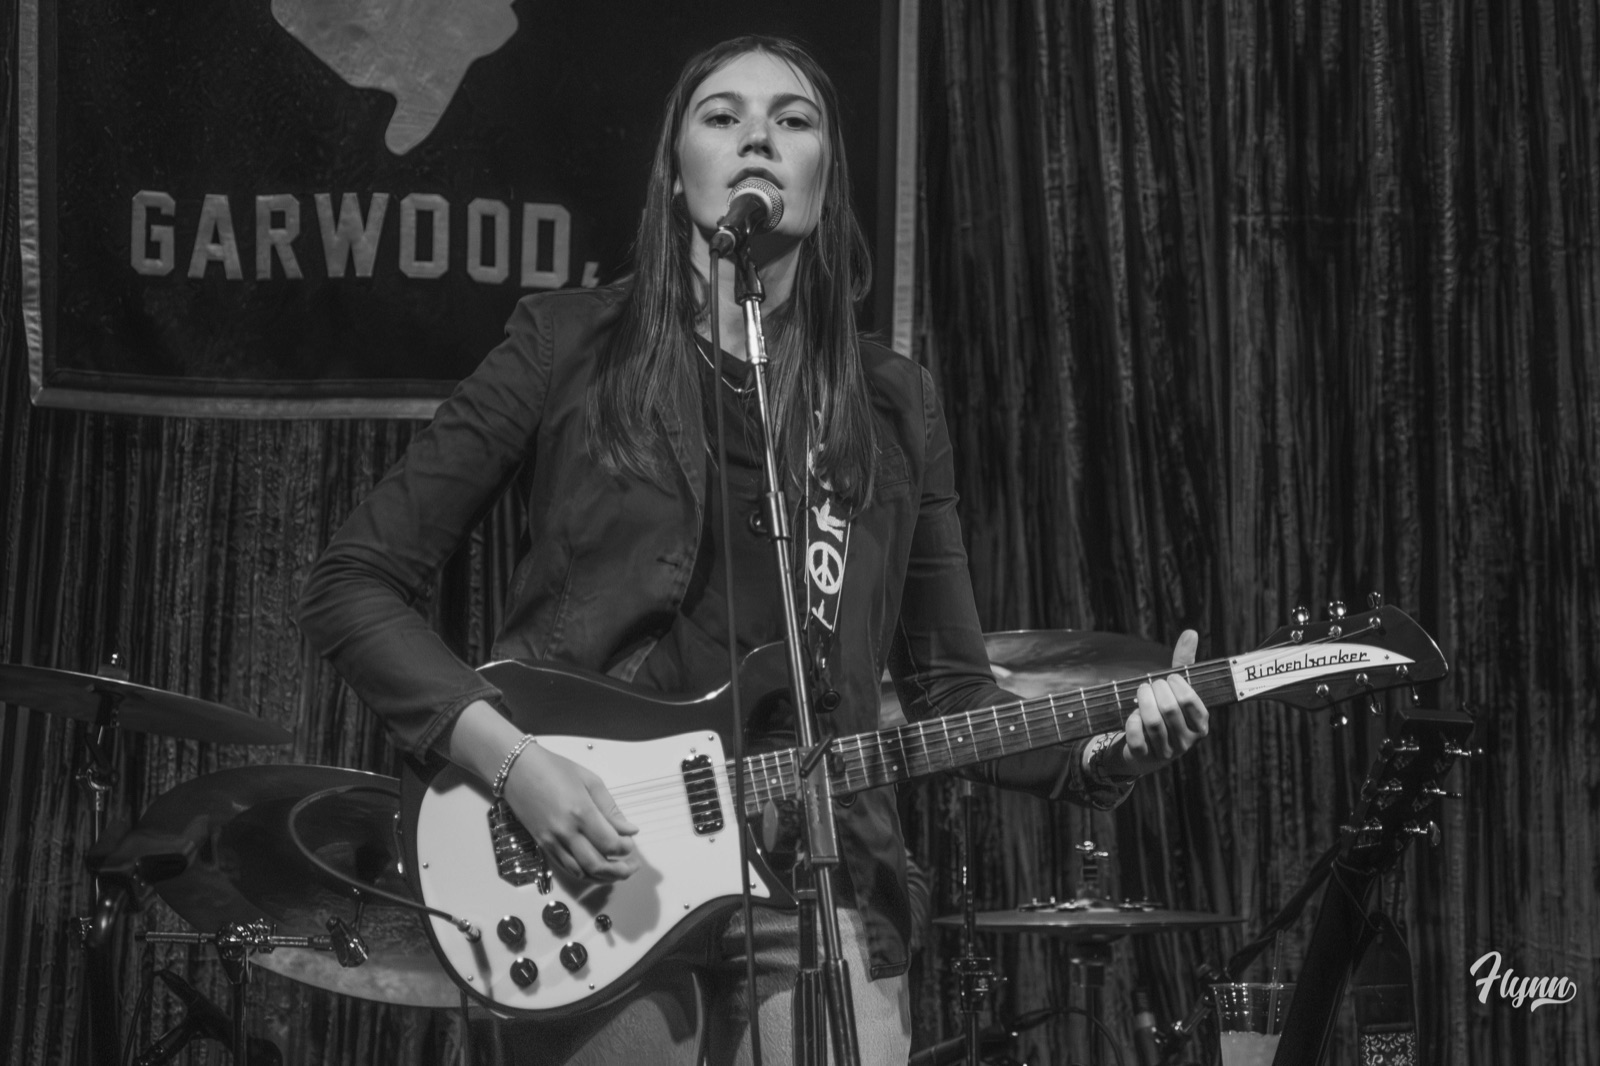
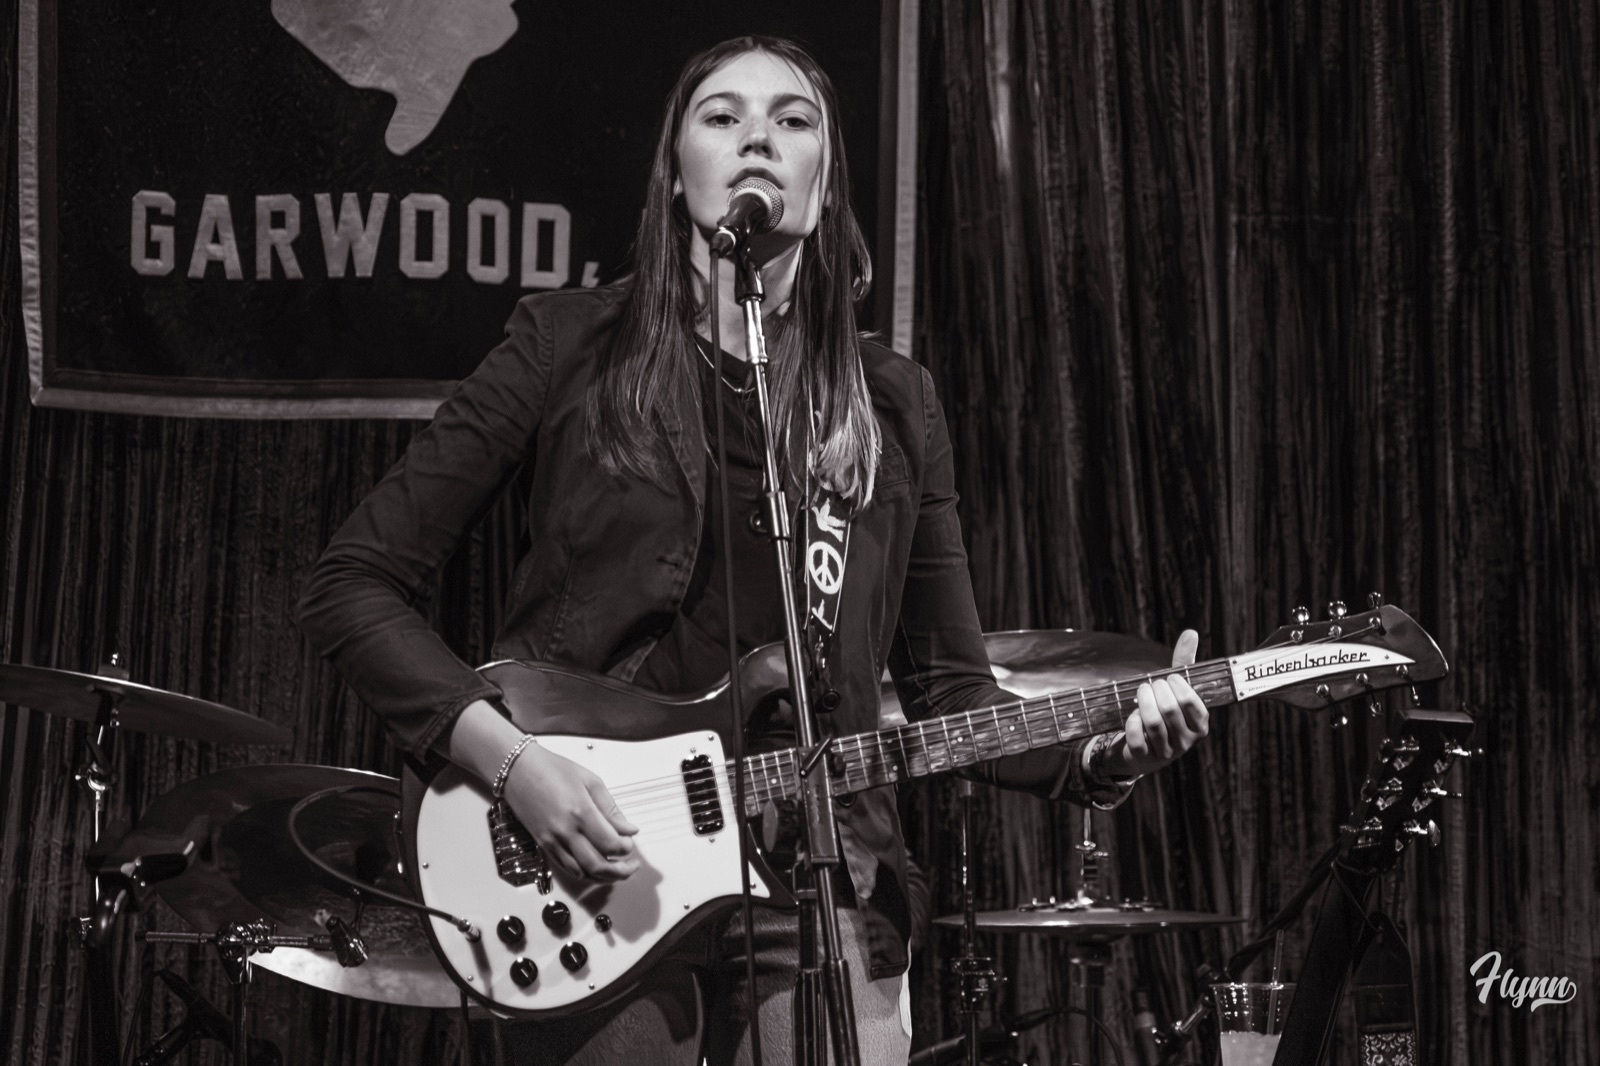
Ally Kenny proofs: replace 8370, drop 8411

diff --git a/proofs/ally-kenny/index.html b/proofs/ally-kenny/index.html
@@ -60,7 +60,7 @@ footer{color:var(--muted);font-size:13px;font-family:var(--mono);letter-spacing:
   <header>
     <div class="slug">Proof sheet · Thu Nov 19 2026 · Garwood, NJ</div>
     <h1>Ally Kenny in Garwood <em>proofs</em></h1>
-    <p class="lede">Nine frames from Thursday's show — eight color, one black-and-white. Let me know if any of these shouldn't go up.</p>
+    <p class="lede">Eight frames from Thursday's show — seven color, one black-and-white. Let me know if any of these shouldn't go up.</p>
   </header>
 
   <section class="sheet" id="sheet" aria-label="Contact sheet"></section>
@@ -72,7 +72,7 @@ footer{color:var(--muted);font-size:13px;font-family:var(--mono);letter-spacing:
 const FRAMES=[
   {n:"8370",bw:true},{n:"8374"},{n:"8376"},
   {n:"8396"},{n:"8398"},{n:"8407"},
-  {n:"8410"},{n:"8411"},{n:"8450"}
+  {n:"8410"},{n:"8450"}
 ];
 const sheet=document.getElementById("sheet");
 FRAMES.forEach(f=>{
